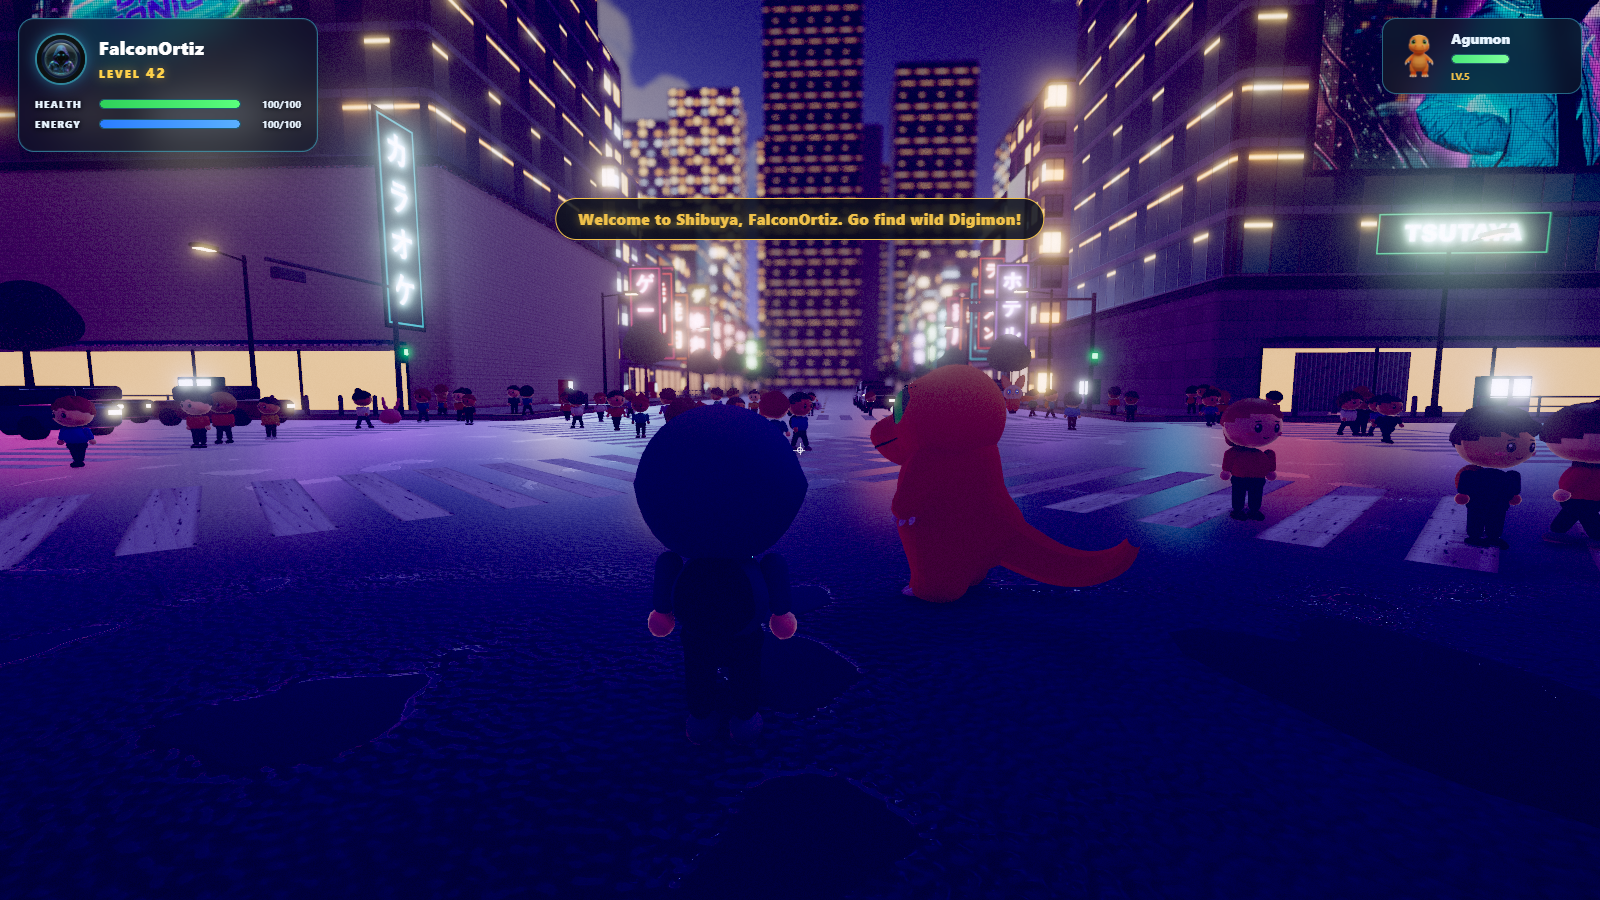
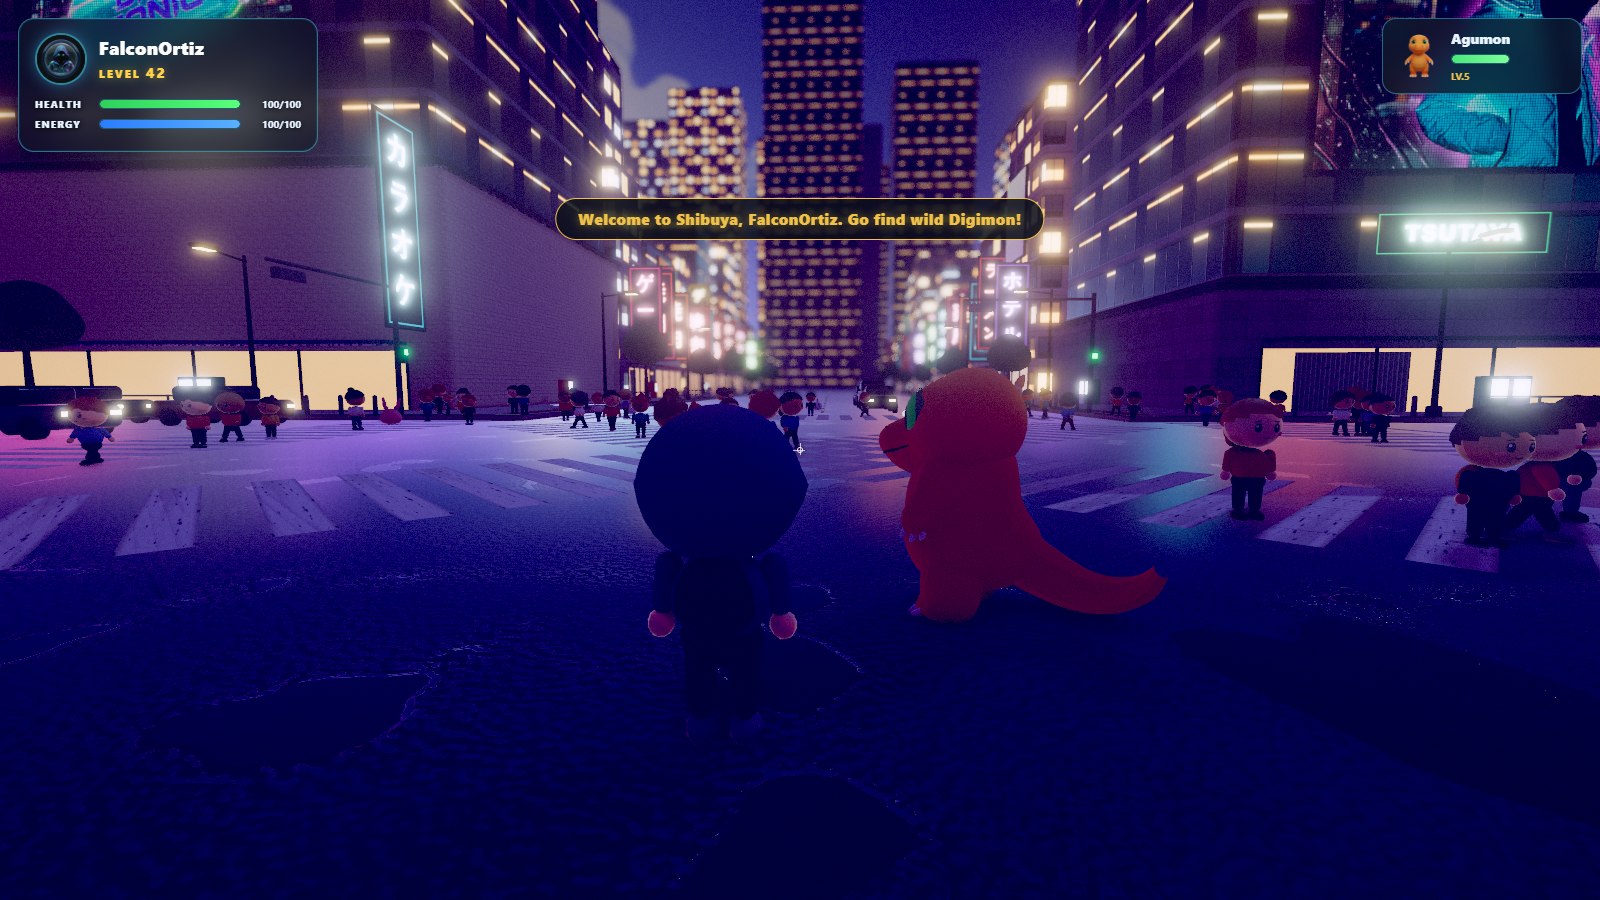
digimon: Agumon camina con piernas articuladas en la cadera, ciclo de pasos sincronizado con la velocidad real y seguimiento a velocidad (sin deslizarse ni flotar)
Creature.gait opcional; DigimonAnimator.setSpeed; Player.teleport recalcula followAnchor para tomas deterministas; baseline docs/gold actualizado.

diff --git a/src/digimon/Agumon.ts b/src/digimon/Agumon.ts
@@ -116,18 +116,6 @@ export function buildAgumon(): Creature {
     // armpit notch keeps the arms from fusing into the chest
     { x: 0.114, y: 0.262, z: 0.030, r: 0.030, sx: 0.8, sy: 1.2, strength: -0.30 },
     { x: -0.114, y: 0.262, z: 0.030, r: 0.030, sx: 0.8, sy: 1.2, strength: -0.30 },
-
-    // legs: thick thigh -> short shin -> big foot
-    { x: 0.078, y: 0.100, z: 0.004, r: 0.070 },
-    { x: -0.078, y: 0.100, z: 0.004, r: 0.070 },
-    { x: 0.082, y: 0.056, z: 0.014, r: 0.052 },
-    { x: -0.082, y: 0.056, z: 0.014, r: 0.052 },
-    { x: 0.084, y: 0.024, z: 0.000, r: 0.046, sy: 0.56, sz: 0.90 },       // heel
-    { x: -0.084, y: 0.024, z: 0.000, r: 0.046, sy: 0.56, sz: 0.90 },
-    { x: 0.086, y: 0.022, z: 0.044, r: 0.046, sy: 0.50, sz: 1.00 },       // ball of the foot
-    { x: -0.086, y: 0.022, z: 0.044, r: 0.046, sy: 0.50, sz: 1.00 },
-    // crotch notch
-    { x: 0, y: 0.050, z: 0.012, r: 0.058, sx: 0.44, sz: 1.5, strength: -0.62 },
   ];
 
   const BODY_RES = 44;
@@ -154,32 +142,64 @@ export function buildAgumon(): Creature {
   body.receiveShadow = true;
   rig.body.add(body);
 
-  const probeBody = makeSurfaceProbe(bodyGeo);
-  const clawAt = (geo: THREE.BufferGeometry, origin: THREE.Vector3, dir: THREE.Vector3, tilt: THREE.Euler) => {
-    const hit = probeBody(origin, dir);
+  const clawAt = (
+    probe: ReturnType<typeof makeSurfaceProbe>, parent: THREE.Object3D,
+    geo: THREE.BufferGeometry, origin: THREE.Vector3, dir: THREE.Vector3, tilt: THREE.Euler,
+  ) => {
+    const hit = probe(origin, dir);
     if (!hit) return;
     const c = new THREE.Mesh(geo, clawMat);
     c.position.copy(hit.point).addScaledVector(hit.normal, -0.004);
     c.rotation.copy(tilt);
     c.castShadow = true;
-    rig.body.add(c);
+    parent.add(c);
   };
+  const probeBody = makeSurfaceProbe(bodyGeo);
 
-  // Three toe claws per foot, fanned across the front of the foot.
-  const footClaw = clawGeometry(0.030, 0.0105);
-  for (const s of [1, -1]) {
-    for (const off of [-1, 0, 1]) {
-      const x = s * 0.086 + off * 0.026;
-      clawAt(footClaw, new THREE.Vector3(x, 0.016, 0.02), new THREE.Vector3(off * 0.25, 0, 1),
-        new THREE.Euler(Math.PI * 0.60, off * 0.25, 0));
-    }
-  }
   // Three finger claws per hand, pointing down and in.
   const handClaw = clawGeometry(0.026, 0.0085);
   for (const s of [1, -1]) {
     for (const off of [-1, 0, 1]) {
-      clawAt(handClaw, new THREE.Vector3(s * 0.172, 0.222, 0.064 + off * 0.016), new THREE.Vector3(s * 0.25, -1, off * 0.35),
+      clawAt(probeBody, rig.body, handClaw, new THREE.Vector3(s * 0.172, 0.222, 0.064 + off * 0.016), new THREE.Vector3(s * 0.25, -1, off * 0.35),
         new THREE.Euler(Math.PI * 0.94 - off * 0.25, 0, -s * 0.35));
+    }
+  }
+
+  /* ---- Legs -------------------------------------------------------- */
+  // Separate sculpts pivoting at the hip so the walk cycle can swing them.
+  // The thigh ball is centred on the pivot, so the joint silhouette holds at
+  // any angle. Coordinates are relative to the pivot.
+  const HIP_Y = 0.100;
+  const legs: THREE.Group[] = [];
+  const footClaw = clawGeometry(0.030, 0.0105);
+  for (const s of [1, -1]) {
+    const legBalls: Ball[] = [
+      { x: 0, y: 0, z: 0, r: 0.070 },                                        // thigh
+      { x: s * 0.004, y: -0.044, z: 0.010, r: 0.052 },                       // shin
+      { x: s * 0.006, y: -0.076, z: -0.004, r: 0.046, sy: 0.56, sz: 0.90 },  // heel
+      { x: s * 0.008, y: -0.078, z: 0.040, r: 0.046, sy: 0.50, sz: 1.00 },   // ball of the foot
+    ];
+    let legGeo = metaSurface(legBalls, { resolution: 30, smooth: 0.86, padding: 0.03 });
+    fixOutward(legGeo, 'agumon-leg');
+    legGeo = weldDecimate(legGeo, BODY_FACET);
+    legGeo.setAttribute('uv', boxProjectedUV(legGeo, 17));
+    markSculpt(legGeo, new THREE.Vector3(0, -0.04, 0), () => -1, 0.22, 1);
+
+    const leg = new THREE.Group();
+    leg.name = s > 0 ? 'legL' : 'legR';
+    leg.position.set(s * 0.078, HIP_Y, 0.004);
+    const legMesh = new THREE.Mesh(legGeo, painted);
+    legMesh.castShadow = true;
+    legMesh.receiveShadow = true;
+    leg.add(legMesh);
+    rig.body.add(leg);
+    legs.push(leg);
+
+    // Three toe claws fanned across the front of the foot.
+    const probeLeg = makeSurfaceProbe(legGeo);
+    for (const off of [-1, 0, 1]) {
+      clawAt(probeLeg, leg, footClaw, new THREE.Vector3(s * 0.008 + off * 0.026, -0.084, 0.02), new THREE.Vector3(off * 0.25, 0, 1),
+        new THREE.Euler(Math.PI * 0.60, off * 0.25, 0));
     }
   }
 
@@ -338,6 +358,9 @@ export function buildAgumon(): Creature {
   const anim = new IdleAnimator(rig, 33);
   const rnd = makeRng(404);
   let attention = 0;
+  let gPhase = 0;
+  let gWeight = 0;
+  let gRun = 0;
 
   return {
     id: 'agumon',
@@ -345,12 +368,31 @@ export function buildAgumon(): Creature {
     group: rig.root,
     get attention() { return attention; },
     set attention(v: number) { attention = clamp(v, 0, 1); },
+    gait(phase, weight, run) {
+      gPhase = phase;
+      gWeight = weight;
+      gRun = run;
+    },
     update(dt, elapsed) {
       anim.update(dt, elapsed, attention);
-      tail.rotation.y = Math.sin(elapsed * 0.82) * (0.09 + attention * 0.09);
-      tail.rotation.x = Math.sin(elapsed * 1.1 + 0.6) * 0.045;
+      const w = gWeight;
+      const sin = Math.sin(gPhase);
+      const cos = Math.cos(gPhase);
+      const swing = (0.46 + gRun * 0.22) * sin * w;
+      const lift = (0.020 + gRun * 0.014) * w;
+      // Left leg swings forward while cos < 0, the right one on the other half.
+      legs[0].rotation.x = swing;
+      legs[1].rotation.x = -swing;
+      legs[0].position.y = HIP_Y + Math.max(0, -cos) * lift;
+      legs[1].position.y = HIP_Y + Math.max(0, cos) * lift;
+      // Drop the hips by exactly what the planted leg loses to its angle.
+      const dip = HIP_Y * (1 - Math.cos(swing));
+      rig.body.position.y = Math.sin(elapsed * 1.3) * 0.004 * (1 - w) - dip;
+      rig.body.rotation.z += sin * 0.07 * w;
+      rig.body.rotation.y = sin * 0.10 * w;
+      tail.rotation.y = Math.sin(elapsed * 0.82) * (0.09 + attention * 0.09) * (1 - w) - sin * 0.22 * w;
+      tail.rotation.x = Math.sin(elapsed * 1.1 + 0.6) * 0.045 + w * 0.08;
       tail.rotation.z = Math.sin(elapsed * 1.7) * 0.04;
-      rig.body.position.y = Math.sin(elapsed * 1.3) * 0.004;
       void rnd;
     },
     celebrate: () => anim.celebrate(),

diff --git a/src/digimon/index.ts b/src/digimon/index.ts
@@ -31,6 +31,11 @@ export interface WildMember {
   level: number;
 }
 
+/** Follow slot: arrival radius, top speed (player sprint ≈ 7.1 m/s), teleport past this. */
+const FOLLOW_ARRIVE = 0.15;
+const FOLLOW_MAX_SPEED = 8;
+const FOLLOW_TELEPORT = 14;
+
 interface PlayerLike {
   pos: THREE.Vector3;
   yaw: number;
@@ -53,6 +58,7 @@ export class DigimonSystem implements GameSystem {
   private trainer!: TrainerLike;
   /** true = otro sistema (combate, captura) controla la pose del activo. */
   private pinned = false;
+  private followSpeed = 0;
 
   init(ctx: Ctx): this {
     this.ctx = ctx;
@@ -179,6 +185,8 @@ export class DigimonSystem implements GameSystem {
     const m = this.getActive();
     if (m !== this.active) this.setActive(m);
     this.pinned = true;
+    this.followSpeed = 0;
+    if (m.anim.state === 'walk') m.anim.play('idle', 0.4);
     m.model.position.copy(at);
     m.model.rotation.set(0, yaw, 0);
     return m;
@@ -209,18 +217,30 @@ export class DigimonSystem implements GameSystem {
     if (!this.pinned) {
       const p = this.player.pos;
       const anchor = this.player.followAnchor;
-      const tx = anchor ? anchor.x : p.x;
-      const tz = anchor ? anchor.z : p.z;
-      const k = Math.min(1, 4 * dt);
-      const moving = Math.abs(tx - m.position.x) + Math.abs(tz - m.position.z) > 0.05;
-      m.position.x += (tx - m.position.x) * k;
-      m.position.z += (tz - m.position.z) * k;
+      const dx = (anchor ? anchor.x : p.x) - m.position.x;
+      const dz = (anchor ? anchor.z : p.z) - m.position.z;
+      const dist = Math.hypot(dx, dz);
+      if (dist > FOLLOW_TELEPORT) {
+        this.snapToPlayer();
+        this.followSpeed = 0;
+      } else {
+        // Walks to the slot and eases in as it arrives, instead of gliding.
+        const want = dist > FOLLOW_ARRIVE ? Math.min(FOLLOW_MAX_SPEED, (dist - FOLLOW_ARRIVE) * 3.2 + 0.8) : 0;
+        this.followSpeed += (want - this.followSpeed) * Math.min(1, 7 * dt);
+        if (dist > 1e-4) {
+          const step = Math.min(dist, this.followSpeed * dt);
+          m.position.x += (dx / dist) * step;
+          m.position.z += (dz / dist) * step;
+        }
+      }
       m.position.y = groundHeightAt(m.position.x, m.position.z);
-      const targetYaw = this.player.yaw + Math.PI + 1.05;
-      m.rotation.y += wrapAngle(targetYaw - m.rotation.y) * Math.min(1, 6 * dt);
       const anim = this.active.anim;
-      if (moving && anim.state === 'idle') anim.play('walk', 0.6);
-      else if (!moving && anim.state === 'walk') anim.play('idle', 0.4);
+      const walking = anim.state === 'walk' ? this.followSpeed > 0.25 : this.followSpeed > 0.5;
+      const faceYaw = walking && dist > 0.05 ? Math.atan2(dx, dz) : this.player.yaw + Math.PI + 1.05;
+      m.rotation.y += wrapAngle(faceYaw - m.rotation.y) * Math.min(1, (walking ? 9 : 5) * dt);
+      anim.setSpeed(this.followSpeed);
+      if (walking && anim.state === 'idle') anim.play('walk', 0.6);
+      else if (!walking && anim.state === 'walk') anim.play('idle', 0.4);
     }
     for (const member of this.party) if (member.model.visible) member.anim.update(dt);
   }

diff --git a/src/digimon/anim.ts b/src/digimon/anim.ts
@@ -22,11 +22,19 @@ export class DigimonAnimator {
   private readonly pose: THREE.Object3D;
   private readonly creature: Creature;
   private readonly height: number;
+  private phase = 0;
+  private gaitWeight = 0;
+  private speed = -1;
 
   constructor(readonly model: THREE.Object3D) {
     this.pose = model.userData.pose as THREE.Object3D;
     this.creature = model.userData.creature as Creature;
     this.height = (model.userData.height as number) ?? 1;
+  }
+
+  /** Ground speed in m/s so the step cadence matches travel; -1 = fixed cadence. */
+  setSpeed(mps: number): void {
+    this.speed = mps;
   }
 
   play(state: AnimState, duration = 0.5, onDone: (() => void) | null = null): void {
@@ -40,16 +48,30 @@ export class DigimonAnimator {
   update(dt: number): void {
     this.elapsed += dt;
     this.t += dt;
+    const h = this.height;
+    const walking = this.state === 'walk';
+    const legged = !!this.creature.gait;
+    const run = this.speed < 0 ? 0 : Math.min(1, Math.max(0, (this.speed - 2.2) / 3));
+    if (legged) {
+      // One cycle covers two steps of ~0.21·h each, capped at a scamper.
+      const cycles = this.speed < 0 ? 1.6 : Math.min(3.4, this.speed / (h * 0.42 * (1 + run * 0.5)));
+      this.gaitWeight += ((walking ? 1 : 0) - this.gaitWeight) * Math.min(1, dt * 8);
+      this.phase = (this.phase + dt * cycles * Math.PI * 2) % (Math.PI * 2);
+      this.creature.gait!(this.phase, this.gaitWeight, run);
+    }
     this.creature.update(dt, this.elapsed);
     const u = Math.min(1, this.t / this.duration);
     const p = this.pose;
-    const h = this.height;
     p.position.set(0, 0, 0);
     p.rotation.set(0, 0, 0);
     p.scale.setScalar(1);
 
     switch (this.state) {
       case 'walk': {
+        if (legged) {
+          p.rotation.x = 0.06 + run * 0.1;
+          break;
+        }
         const ph = this.t * 9;
         p.position.y = Math.abs(Math.sin(ph)) * h * 0.05;
         p.rotation.z = Math.sin(ph) * 0.06;

diff --git a/src/player/Player.ts b/src/player/Player.ts
@@ -80,6 +80,16 @@ export class Player implements GameSystem {
     this.vel.set(0, 0, 0);
     this.yaw = yaw;
     this.pitch = 0;
+    this.updateFollowAnchor();
+  }
+
+  private updateFollowAnchor(): void {
+    const right = this.yaw + Math.PI / 2;
+    this.followAnchor.set(
+      this.pos.x + Math.sin(right) * 1.35 - Math.sin(this.yaw) * 1.6,
+      this.pos.y - this.height,
+      this.pos.z + Math.cos(right) * 1.35 - Math.cos(this.yaw) * 1.6,
+    );
   }
 
   fixedUpdate(h: number, ctx: Ctx): void {
@@ -181,17 +191,13 @@ export class Player implements GameSystem {
     this.stride += ((moving > 0.4 && this.onGround ? 1 : 0) - this.stride) * Math.min(1, dt * 10);
     poseTrainer(this.mesh, chibiPose(this.bob * 2, this.stride, this.pose));
 
-    const right = this.yaw + Math.PI / 2;
-    this.followAnchor.set(
-      this.pos.x + Math.sin(right) * 1.35 - Math.sin(this.yaw) * 1.6,
-      feetY,
-      this.pos.z + Math.cos(right) * 1.35 - Math.cos(this.yaw) * 1.6,
-    );
+    this.updateFollowAnchor();
 
     if (ctx.peek<{ running: boolean }>('battle')?.running) return;
     const cam = ctx.camera;
     cam.rotation.order = 'YXZ';
     if (this.viewMode === 'trainer') {
+      const right = this.yaw + Math.PI / 2;
       const back = 2.6;
       const side = 0.45;
       cam.position.set(

diff --git a/src/digimon/shared.ts b/src/digimon/shared.ts
@@ -50,6 +50,12 @@ export interface Creature {
   readonly name: string;
   readonly group: THREE.Group;
   update(dt: number, elapsed: number): void;
+  /**
+   * Legged walk cycle, applied on the next `update`. `phase` in radians (one
+   * full turn = two steps), `weight` 0..1 blends from idle, `run` 0..1 widens
+   * the stride. Creatures without it fall back to the pose-level bob.
+   */
+  gait?(phase: number, weight: number, run: number): void;
   celebrate(): void;
   /** 0..1 — raised while the player is looking at this creature. */
   attention: number;
